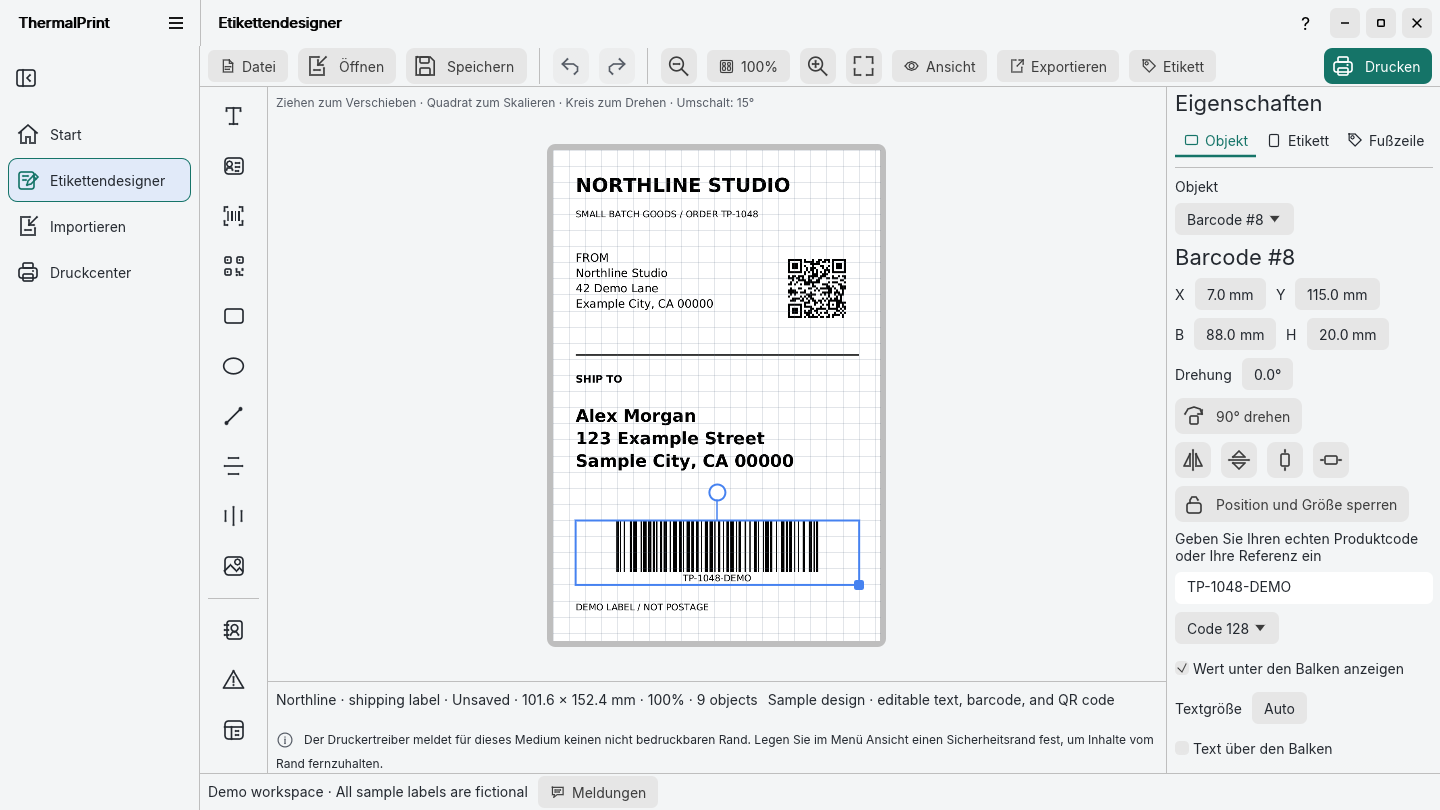
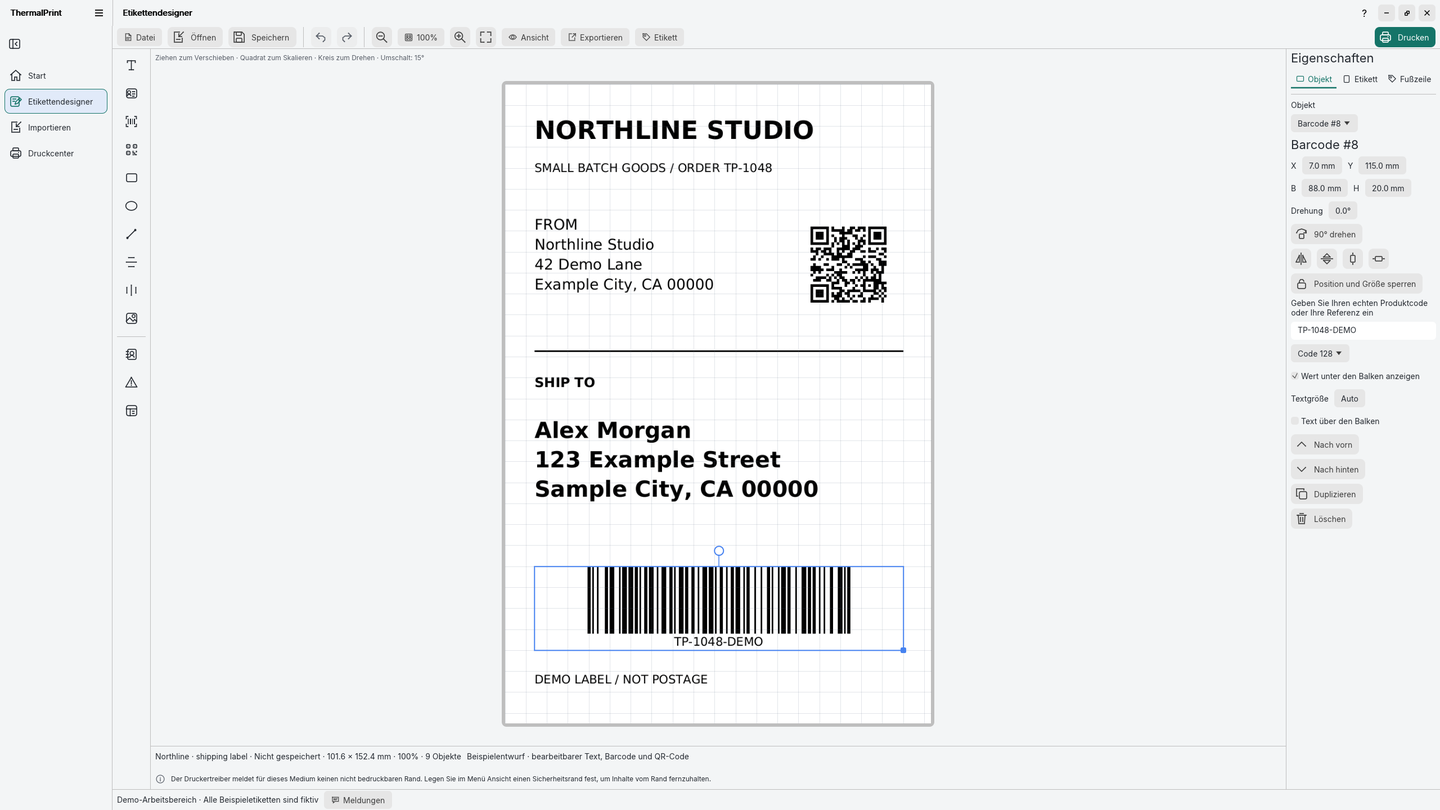
Release 0.19.0: TSPL printing and complete translations
Bump to 0.19.0 with AppStream, manual and Microsoft Store release
notes, refresh the German Label Designer screenshot, and translate the
screenshot demo status line.

diff --git a/docs/manual/pages/01-install.html b/docs/manual/pages/01-install.html
@@ -4,7 +4,7 @@ group: Start here
 summary: Install ThermalPrint, set up your printer, and print your first label.
 -->
 <h2 id="windows-11">Windows 11</h2>
-<p>Install the latest ThermalPrint for Windows 11 x64 from the <a href="https://apps.microsoft.com/detail/9NXDXRSQW0ZF">Microsoft Store</a>. ThermalPrint’s source code is MIT-licensed on both platforms. Linux downloads are free, and the US Microsoft Store edition is a $4.99 one-time purchase that supports continued development. A free 7-day trial is available. The package includes PDFium for PDF import. This guide covers <strong>version 0.18.0</strong>; Store updates become available after Microsoft certification. Check your installed version in <strong>About ThermalPrint</strong>.</p>
+<p>Install the latest ThermalPrint for Windows 11 x64 from the <a href="https://apps.microsoft.com/detail/9NXDXRSQW0ZF">Microsoft Store</a>. ThermalPrint’s source code is MIT-licensed on both platforms. Linux downloads are free, and the US Microsoft Store edition is a $4.99 one-time purchase that supports continued development. A free 7-day trial is available. The package includes PDFium for PDF import. This guide covers <strong>version 0.19.0</strong>; Store updates become available after Microsoft certification. Check your installed version in <strong>About ThermalPrint</strong>.</p>
 <ol>
   <li>Connect your printer and add it in <strong>Settings → Bluetooth &amp; devices → Printers &amp; scanners</strong>. If prompted, install the Windows driver for your printer model.</li>
   <li>Open <strong>ThermalPrint</strong> from the Start menu. In <strong>Print Center</strong>, choose <strong>Set up printer and label stock</strong> and follow its steps. Choose your printer first; use <strong>Refresh printers</strong> if it is missing.</li>

diff --git a/docs/manual/pages/00-index.html b/docs/manual/pages/00-index.html
@@ -5,7 +5,7 @@ summary: Design, prepare, and print thermal labels on Linux and Windows 11.
 -->
 <p><strong>ThermalPrint</strong> is a desktop app for people who print shipping labels, price tags, shelf labels, and inventory stickers. Label files are processed on your computer. ThermalPrint uses CUPS on Linux and the Windows print spooler on Windows 11. You can also use a <strong>laser or inkjet printer</strong> with supported paper sizes, or place several labels on an A4 or Letter sheet.</p>
 <p>See <a href="install.html#windows-11">Getting started on Windows 11</a> for Store availability, printer setup, and your first print. Most screenshots in this manual were captured on Linux.</p>
-<p>This manual covers <strong>version 0.18.0</strong>: reliable Windows alignment tests, automatic media matching, and background printing that stays out of the way. See <a href="whats-new.html#version-0-18-0">What's new in 0.18.0</a> for the release overview.</p>
+<p>This manual covers <strong>version 0.19.0</strong>: direct TSPL printing for popular 4 × 6 shipping label printers, and complete Spanish, German, and French translations. See <a href="whats-new.html#version-0-19-0">What's new in 0.19.0</a> for the release overview.</p>
 <p>If a control is missing, check your installed version in <strong>About ThermalPrint</strong> and update through your installation channel. Microsoft Store updates appear after certification.</p>
 {{figure:home|The ThermalPrint home screen with two large cards, Create new label and Open existing labels, above a grid of label templates|The Home screen: two ways to start, plus ready-made templates.}}
 <h2 id="how-to-read-this-manual">How to read this manual</h2>

diff --git a/docs/manual/pages/15-whats-new.html b/docs/manual/pages/15-whats-new.html
@@ -1,9 +1,16 @@
 <!--
 title: What's new
 group: Reference
-summary: Changes in versions 0.6.0 to 0.18.0, how they work, and where to read more.
+summary: Changes in versions 0.6.0 to 0.19.0, how they work, and where to read more.
 -->
 <p>This page lists what changed recently and links to the full explanation of each tool. Your version is shown in <strong>☰ → About ThermalPrint</strong>.</p>
+
+<h2 id="version-0-19-0">Version 0.19.0</h2>
+<p>Direct printing for TSPL label printers, and the whole app in your language.</p>
+<ul>
+  <li><strong>TSPL printing.</strong> Many low-cost 4 × 6 shipping label printers, such as Munbyn, iDPRT, and TSC models, use TSPL instead of ZPL. In the Label Designer, <strong>Export</strong> now chooses how labels print: through the printer driver, as raw ZPL, or as raw TSPL. It also saves a <em>TSPL label</em> file. TSPL sets the label size and keeps the printer's own gap calibration. Batch printing and reprints from print history use the same language. See <a href="export.html#printing-raw-zpl">Printing raw ZPL or TSPL</a>.</li>
+  <li><strong>Fully translated screens.</strong> Spanish, German, and French now cover the parts that were still in English: the Import &amp; Convert queue and its steps, crop modes, and layout options; the Print Center summary of copies, printer media, and queued labels; the printer type hints; and the Label Designer status bar.</li>
+</ul>
 
 <h2 id="version-0-18-0">Version 0.18.0</h2>
 <p>Windows printing now follows the selected label media and the printer driver's actual printable area.</p>

diff --git a/src/i18n.rs b/src/i18n.rs
@@ -1647,6 +1647,10 @@ const ES: &[(&str, &str)] = &[
         "For TSPL printers such as many 4 × 6 shipping printers. Requires a printer that accepts RAW jobs. The printer keeps its own gap calibration.",
         "Para impresoras TSPL, como muchas impresoras de envío de 4 × 6. Requiere una impresora que acepte trabajos RAW. La impresora conserva su propia calibración de separación.",
     ),
+    (
+        "Sample design · editable text, barcode, and QR code",
+        "Diseño de ejemplo · texto, código de barras y código QR editables",
+    ),
 ];
 const DE: &[(&str, &str)] = &[
     ("No matches", "Keine Treffer"),
@@ -3168,6 +3172,10 @@ const DE: &[(&str, &str)] = &[
     (
         "For TSPL printers such as many 4 × 6 shipping printers. Requires a printer that accepts RAW jobs. The printer keeps its own gap calibration.",
         "Für TSPL-Drucker wie viele 4 × 6-Versanddrucker. Erfordert einen Drucker, der RAW-Aufträge annimmt. Der Drucker behält seine eigene Lückenkalibrierung.",
+    ),
+    (
+        "Sample design · editable text, barcode, and QR code",
+        "Beispielentwurf · bearbeitbarer Text, Barcode und QR-Code",
     ),
 ];
 const FR: &[(&str, &str)] = &[
@@ -4735,6 +4743,10 @@ const FR: &[(&str, &str)] = &[
     (
         "For TSPL printers such as many 4 × 6 shipping printers. Requires a printer that accepts RAW jobs. The printer keeps its own gap calibration.",
         "Pour les imprimantes TSPL, comme de nombreuses imprimantes d'expédition 4 × 6. Nécessite une imprimante qui accepte les travaux RAW. L'imprimante conserve son propre étalonnage d'espacement.",
+    ),
+    (
+        "Sample design · editable text, barcode, and QR code",
+        "Modèle d'exemple · texte, code-barres et code QR modifiables",
     ),
 ];
 

diff --git a/src/ui/screenshots.rs b/src/ui/screenshots.rs
@@ -642,7 +642,8 @@ pub(super) fn seed(app: &mut ThermalPrint, ctx: &egui::Context) {
         app.designer.select_object(id);
     }
     app.designer.grid = true;
-    app.designer.status = "Sample design · editable text, barcode, and QR code".into();
+    app.designer.status =
+        crate::i18n::tr("Sample design · editable text, barcode, and QR code").into();
     let mut page_image = image::RgbImage::from_pixel(1678, 2373, image::Rgb([255; 3]));
     image::imageops::replace(&mut page_image, &output.image, 100, 120);
     app.crop = Crop {

diff --git a/docs/SNAP.md b/docs/SNAP.md
@@ -16,7 +16,7 @@ From a checkout of this repository, run:
 
 ```sh
 sh scripts/build-snap.sh
-python3 scripts/verify-snap.py target/snap/thermalprint_0.18.0_amd64.snap
+python3 scripts/verify-snap.py target/snap/thermalprint_0.19.0_amd64.snap
 ```
 
 Use the version from `Cargo.toml` in the filename. The build adopts that version
@@ -39,7 +39,7 @@ Python packaging checks require PyYAML (`python3-yaml` on Ubuntu).
 ## Install a local build
 
 ```sh
-sudo snap install --dangerous target/snap/thermalprint_0.18.0_amd64.snap
+sudo snap install --dangerous target/snap/thermalprint_0.19.0_amd64.snap
 snap connections thermalprint
 snap run thermalprint
 ```
@@ -158,8 +158,8 @@ Tagged releases publish automatically. One-time setup:
    optionally add a required reviewer there if you want an approval gate.
 
 To release: bump `version` in `Cargo.toml` (and `Cargo.lock`), merge to `main`,
-then push a tag that exactly matches it, for example `git tag v0.18.0 && git push
-origin v0.18.0`. The workflow checks the tag, runs the packaging tests, builds and
+then push a tag that exactly matches it, for example `git tag v0.19.0 && git push
+origin v0.19.0`. The workflow checks the tag, runs the packaging tests, builds and
 inspects the Snap, then releases it to **stable**. The same `v*` tag also
 triggers the APT release ([release-apt.yml](../.github/workflows/release-apt.yml))
 and the Fedora RPM release ([release-rpm.yml](../.github/workflows/release-rpm.yml)),

diff --git a/docs/RELEASING.md b/docs/RELEASING.md
@@ -9,7 +9,7 @@ The package name and executable are both `thermalprint`. The APT repository live
 To install a downloaded `.deb` directly, use APT so package dependencies are installed:
 
 ```sh
-sudo apt install ./thermalprint_0.18.0-1_amd64.deb
+sudo apt install ./thermalprint_0.19.0-1_amd64.deb
 ```
 
 Replace the filename with the version you downloaded. The application appears as **ThermalPrint** in the desktop launcher, using the bundled color icon. You can also run `thermalprint` from a terminal.
